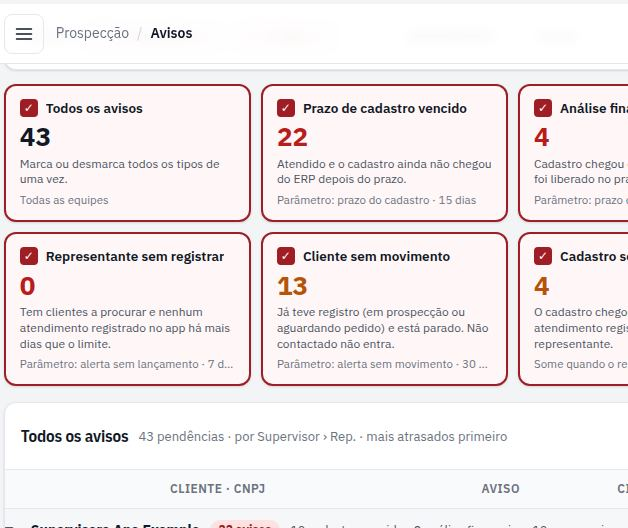
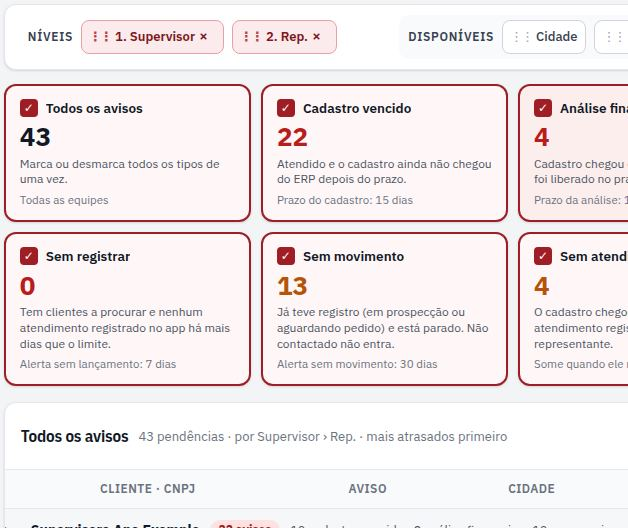
Avisos: dias a partir do início da campanha, grade recolhida, primeiro do menu
- Migração 0032: sem registrar e sem movimento contam a partir do início da
  campanha (Parâmetros); registro anterior, ou nenhum, conta do início. O
  aviso só aparece quando, desde lá, passou o limite. Mesmos índices.
- A grade abre sempre recolhida (ao entrar e ao voltar à tela).
- Avisos é o primeiro item do menu (página inicial da gestão e do supervisor).
- Mouse sobre card e linha do representante: fundo suave e texto escuro, sem
  o vermelho do botão.
- Ajuda, docs/02 e docs/03 §4 e §18, testes.

diff --git a/web/js/telas/avisos.js b/web/js/telas/avisos.js
@@ -3,7 +3,7 @@
 // saem do que está escolhido. Tela inicial de administrador, gerente e supervisor (este só a equipe). docs/03 §18
 import { bancoApp, lerComCache } from '../db.js';
 import { consultaAvisos, consultaParametrosAvisos, consultaParaConferir, contarAvisos, montarGradeAvisos, NIVEIS_AVISOS, pendenciasPorRepresentante,
-  prepararAviso, textoParametro, TIPO_AVISO, TIPOS_AVISO } from '../../shared/avisos.mjs';
+  prepararAviso, rotuloDesde, textoParametro, TIPO_AVISO, TIPOS_AVISO } from '../../shared/avisos.mjs';
 import { niveisPossiveis } from '../../shared/explorar.mjs';
 import { veTodasEquipes } from '../../shared/perfis.mjs';
 import { hojeSaoPaulo } from '../../shared/datas.mjs';
@@ -32,13 +32,13 @@ export async function render(conteudo, { usuario }) {
   const tudo = veTodasEquipes(usuario);
   const possiveis = niveisPossiveis(usuario);
   const nome = (n) => NIVEIS_AVISOS[n].nome;
-  const estado = { niveis: lerNiveis(possiveis, tudo ? ['supervisor', 'representante'] : ['representante']), tipos: new Set(TIPOS_AVISO.map((t) => t.id)), fechados: new Set(), editarNiveis: false };
-  const memoria = memoriaDaTela('avisos', usuario);   // ao voltar da ficha, os tipos marcados e os ramos fechados continuam
+  const estado = { niveis: lerNiveis(possiveis, tudo ? ['supervisor', 'representante'] : ['representante']), tipos: new Set(TIPOS_AVISO.map((t) => t.id)), abertos: new Set(), editarNiveis: false };
+  const memoria = memoriaDaTela('avisos', usuario);   // ao voltar da ficha, os tipos marcados continuam; a grade abre sempre recolhida
   const salvo = memoria.ler();
-  if (salvo && JSON.stringify(salvo.niveis) === JSON.stringify(estado.niveis)) Object.assign(estado, { tipos: new Set(salvo.tipos ?? []), fechados: new Set(salvo.fechados ?? []) });
+  if (salvo && JSON.stringify(salvo.niveis) === JSON.stringify(estado.niveis)) Object.assign(estado, { tipos: new Set(salvo.tipos ?? []) });
   const cont = contarAvisos(avisos);
   const area = h('div', { id: 'av-tela', class: 'av-tela' });
-  const mudarNiveis = (n) => { estado.niveis = n; estado.fechados = new Set(); try { localStorage.setItem(CHAVE_NIVEIS, JSON.stringify(n)); } catch { /* só nesta visita */ } desenhar(); };
+  const mudarNiveis = (n) => { estado.niveis = n; estado.abertos = new Set(); try { localStorage.setItem(CHAVE_NIVEIS, JSON.stringify(n)); } catch { /* só nesta visita */ } desenhar(); };
   const escolhidos = () => avisos.filter((a) => estado.tipos.has(a.tipo));
 
   const botaoExcel = h('button', { type: 'button', class: 'secundario', id: 'excel-avisos', onclick: () => comEspera(botaoExcel, async () => {
@@ -48,7 +48,7 @@ export async function render(conteudo, { usuario }) {
       { titulo: 'Aviso', valor: (l) => TIPO_AVISO[l.tipo].nome, largura: 30 }, { titulo: 'Código', valor: (l) => l.codigo_cliente_erp ?? '', largura: 10 },
       { titulo: 'Razão social', valor: (l) => l.razao_social ?? '', largura: 40 }, { titulo: 'CNPJ', valor: (l) => documento(l.cnpj), largura: 20 },
       { titulo: 'Cidade', valor: (l) => [l.cidade, l.uf].filter(Boolean).join('/'), largura: 22 }, { titulo: 'Rota', valor: (l) => l.rota ?? '', largura: 16 },
-      { titulo: 'Desde', valor: (l) => formatar.data(l.data_ref), largura: 12 }, { titulo: 'O que é a data', valor: (l) => TIPO_AVISO[l.tipo].desde, largura: 16 },
+      { titulo: 'Desde', valor: (l) => formatar.data(l.data_ref), largura: 12 }, { titulo: 'O que é a data', valor: (l) => rotuloDesde(l, parametros), largura: 18 },
       { titulo: 'Atraso (dias)', valor: (l) => l.atraso ?? 'nunca registrou', largura: 14 },
     ], lista, { aba: 'Avisos' });
     aviso(`Excel gerado: ${plural(lista.length, 'aviso', 'avisos')}.`);
@@ -58,6 +58,7 @@ export async function render(conteudo, { usuario }) {
     const conferir = (await lerComCache(db, consultaParaConferir({ usuario }), 120)).rows;
     const reps = pendenciasPorRepresentante(escolhidos(), conferir);
     const hoje = hojeSaoPaulo();
+    for (const r of reps) for (const a of r.avisos) a.desdeRotulo = rotuloDesde(a, parametros);
     await gerarPdfPendencias({ reps, tipos: TIPOS_AVISO.filter((t) => estado.tipos.has(t.id)).map((t) => ({ ...t, textoParam: textoParametro(t.id, parametros) })),
       equipe: tudo ? 'Todas as equipes' : `Equipe: ${usuario.nome}`, comSupervisor: tudo, emissao: formatar.data(hoje), nomeArquivo: `pendencias-${hoje}.pdf` });
   }) }, 'PDF de pendências');
@@ -82,11 +83,11 @@ export async function render(conteudo, { usuario }) {
     const sub = `${plural(lista.length, 'pendência', 'pendências')}${estado.niveis.length ? ` · por ${estado.niveis.map(nome).join(' › ')}` : ''} · mais atrasados primeiro`;
     botaoExcel.disabled = !lista.length; botaoPdf.disabled = !lista.length;
     const comRep = estado.niveis.includes('representante');
-    const linhas = montarGradeAvisos({ avisos: lista, niveis: estado.niveis, fechados: estado.fechados });
+    const linhas = montarGradeAvisos({ avisos: lista, niveis: estado.niveis, abertos: estado.abertos });
     const recuo = (prof) => `padding-left:${12 + prof * 22}px`;
     const corpo = linhas.map((l) => {
       if (l.grupo) {
-        const alternar = () => { if (l.aberto) estado.fechados.add(l.caminho); else estado.fechados.delete(l.caminho); desenhar(); };
+        const alternar = () => { if (l.aberto) estado.abertos.delete(l.caminho); else estado.abertos.add(l.caminho); desenhar(); };
         return h('tr', { class: `av-grupo${l.prof ? '' : ' raiz'}`, dados: { caminho: l.caminho } }, h('td', { colspan: 6, style: recuo(l.prof) },
           h('button', { type: 'button', class: 'av-abre', 'aria-expanded': l.aberto ? 'true' : 'false', onclick: alternar },
             h('span', { class: 'seta', 'aria-hidden': 'true' }, l.aberto ? '▼' : '▶'), h('b', {}, l.rotulo),
@@ -102,7 +103,7 @@ export async function render(conteudo, { usuario }) {
           h('small', {}, sub)),
         h('td', { class: 'cen', 'data-r': 'Aviso' }, h('span', { class: `selo av-tipo ${a.tipo}` }, t.curto)),
         h('td', { 'data-r': 'Cidade' }, doRep ? '—' : [a.cidade, a.uf].filter(Boolean).join('/')),
-        h('td', { class: 'cen', 'data-r': 'Desde' }, a.data_ref ? formatar.data(a.data_ref) : '—', h('small', {}, t.desde)),
+        h('td', { class: 'cen', 'data-r': 'Desde' }, a.data_ref ? formatar.data(a.data_ref) : '—', h('small', {}, rotuloDesde(a, parametros))),
         h('td', { class: 'cen', 'data-r': 'Atraso' }, h('span', { class: 'selo erro' }, dias(a))),
         h('td', { class: 'cen', 'data-r': '' }, acao));
     });
@@ -115,7 +116,7 @@ export async function render(conteudo, { usuario }) {
   }
 
   function desenhar() {
-    memoria.guardar({ niveis: estado.niveis, tipos: [...estado.tipos], fechados: [...estado.fechados] });
+    memoria.guardar({ niveis: estado.niveis, tipos: [...estado.tipos] });
     montar(area, ...blocoNiveis({ estado, possiveis, nome, mudarNiveis, desenhar }), cards(), grade());
   }
 

diff --git a/web/css/app.css b/web/css/app.css
@@ -1000,7 +1000,8 @@ button.chip-situacao.ativa:hover { background: var(--destaque-claro); color: var
 .av-cards { display: grid; grid-template-columns: repeat(auto-fill, minmax(200px, 1fr)); gap: 10px; margin-bottom: 16px; }
 .av-card { display: flex; flex-direction: column; align-items: stretch; gap: 4px; min-height: 118px; padding: 12px 14px; text-align: left; font: inherit; color: var(--texto); background: var(--cartao);
   border: 2px solid var(--borda); border-radius: var(--raio); cursor: pointer; box-shadow: var(--sombra); }
-.av-card:hover { border-color: #E8A0A4; }
+.av-card:hover { border-color: #E8A0A4; background: #FFF5F5; color: var(--texto); }   /* o vermelho do botão some: fundo suave, texto legível */
+.av-card.ligado:hover { background: #FDEEEE; }
 .av-card.ligado { border-color: var(--destaque); background: #FFF7F7; }
 .av-card-topo { display: flex; align-items: center; gap: 8px; min-width: 0; }
 .av-card .caixa { flex: none; width: 18px; height: 18px; box-sizing: border-box; border: 2px solid var(--borda-forte); border-radius: 4px; color: #fff; font-size: 12px; line-height: 14px; text-align: center; font-weight: 700; }
@@ -1028,6 +1029,7 @@ button.chip-situacao.ativa:hover { background: var(--destaque-claro); color: var
 .av-grupo td { padding: 0 !important; background: #FCFCFD; border-top: 1px solid var(--borda); }
 .av-grupo.raiz td { background: #F6F7F9; }
 .av-abre { display: flex; align-items: center; gap: 10px; width: 100%; min-height: 42px; padding: 8px 12px 8px 0; font: inherit; color: inherit; text-align: left; background: transparent; border: 0; cursor: pointer; }
+.av-abre:hover { background: #FDF0F0; color: var(--texto); }
 .av-abre .seta { width: 16px; flex: none; font-size: 11px; color: #4B5563; }
 .av-abre b { white-space: nowrap; }
 .av-abre .qtd { flex: none; padding: 1px 9px; border-radius: 999px; background: #FEE2E2; color: #991B1B; font-size: 12px; font-weight: 700; white-space: nowrap; }
@@ -1051,5 +1053,5 @@ button.chip-situacao.ativa:hover { background: var(--destaque-claro); color: var
   .av-card .tit { font-size: 12.5px; }
   .av-card b { font-size: 12.5px; color: inherit !important; }
   .av-card b::before { content: "· "; }
-  .av-card.ligado { background: var(--destaque); color: #fff; }
+  .av-card.ligado, .av-card.ligado:hover { background: var(--destaque); color: #fff; }
 }

diff --git a/web/js/relatorio.js b/web/js/relatorio.js
@@ -278,7 +278,8 @@ export async function gerarPdfPendencias({ reps, tipos, equipe, comSupervisor = 
         doc.setFont('helvetica', 'bold'); doc.setFontSize(10); doc.setTextColor(17, 24, 39);
         doc.text(a.atraso == null ? 'Nunca registrou atendimento no app' : `Sem registrar há ${dias(a)}`, M + 3, y + 5.2);
         doc.setFont('helvetica', 'normal'); doc.setFontSize(8); doc.setTextColor(75, 85, 99);
-        doc.text(`${a.data_ref ? `Último registro em ${data(a.data_ref)}. ` : ''}${b.tipo.textoParam}. ${b.tipo.acao}`, M + 3, y + 10);
+        const desde = !a.data_ref ? '' : a.desdeRotulo === 'início da campanha' ? `Sem registro desde o início da campanha (${data(a.data_ref)}). ` : `Último registro em ${data(a.data_ref)}. `;
+        doc.text(`${desde}${b.tipo.textoParam}. ${b.tipo.acao}`, M + 3, y + 10);
         y += 18;
         continue;
       }
@@ -288,7 +289,7 @@ export async function gerarPdfPendencias({ reps, tipos, equipe, comSupervisor = 
       doc.text(doc.splitTextToSize(`${b.tipo.regra} O que fazer: ${b.tipo.acao}`, util), M, y + 5.5);
       doc.autoTable({ ...tabelaBase, startY: y + 8,
         head: [['', 'Cliente · CNPJ', 'Cidade', 'Desde', 'Atraso', 'Combinado']],
-        body: b.avisos.map((a) => ['', `${a.codigo_cliente_erp ? `${a.codigo_cliente_erp} - ` : ''}${a.razao_social ?? ''}\n${cnpj(a.cnpj)}`, [a.cidade, a.uf].filter(Boolean).join('/'), `${data(a.data_ref)}\n${b.tipo.desde}`, dias(a), '']),
+        body: b.avisos.map((a) => ['', `${a.codigo_cliente_erp ? `${a.codigo_cliente_erp} - ` : ''}${a.razao_social ?? ''}\n${cnpj(a.cnpj)}`, [a.cidade, a.uf].filter(Boolean).join('/'), `${data(a.data_ref)}\n${a.desdeRotulo ?? b.tipo.desde}`, dias(a), '']),
         columnStyles: { 0: { cellWidth: 6 }, 1: { cellWidth: 62 }, 2: { cellWidth: 42, fontSize: 7.5 }, 3: { cellWidth: 22, halign: 'center', fontSize: 7.5 }, 4: { cellWidth: 18, halign: 'center', fontStyle: 'bold', textColor: [153, 27, 27] }, 5: { cellWidth: util - 150 } },
         didDrawCell: (d) => {
           if (d.section !== 'body') return;

diff --git a/web/js/menu.js b/web/js/menu.js
@@ -47,10 +47,11 @@ export function icone(nome) {
 // Grupos do menu. Cada item aparece se o perfil do usuário tem a tela (shared/perfis.mjs); grupo vazio some.
 const GRUPOS = [
   { titulo: 'Prospecção', itens: [
+    // Avisos primeiro: é a página inicial de administrador, gerente e supervisor (quem não tem a tela começa no Explorar)
+    { caminho: '/avisos', rotulo: 'Avisos', icone: 'avisos', tela: 'avisos' },
     { caminho: '/explorar', rotulo: 'Explorar carteira', icone: 'explorar', tela: 'explorar' },
     { caminho: '/carteira', rotulo: 'Lista principal', icone: 'lista', tela: 'lista' },
     { caminho: '/carteira?aba=acompanhamento', rotulo: 'Acompanhamento', icone: 'acompanhamento', tela: 'acompanhamento' },
-    { caminho: '/avisos', rotulo: 'Avisos', icone: 'avisos', tela: 'avisos' },
     { caminho: '/pedidos', rotulo: 'Explorar pedidos', icone: 'erp', tela: 'pedidos' },
     { caminho: '/rejeitados', rotulo: 'Rejeitados', icone: 'rejeitados', tela: 'rejeitados' },
   ] },

diff --git a/docs/03-regras-negocio.md b/docs/03-regras-negocio.md
@@ -151,6 +151,10 @@ Do sistema (não aparece no app): Não informado (importação inicial).
 | Cliente sem movimento (Sem movimento) | `vw_prospects.parado`, **só depois do 1º registro** (0031): Em prospecção desde o último registro, ou Aguardando pedido desde a liberação do crédito (ou o último registro), sem retorno marcado, há mais de `dias_alerta_sem_movimento`. **Não contactado não entra** (é cobertura da carteira, não pendência); Aguardando cadastro e Análise financeira têm prazo próprio e não contam duas vezes | dias parado |
 | Cadastro sem atendimento (Sem atendimento) | `convertido_sem_registro = 1` (cadastro ou pedido do ERP sem atendimento no app), fora de baixado e expurgado | dias desde o cadastro (ou pedido) |
 
+**Início da campanha (0032):** Sem registrar e Sem movimento contam os dias a partir do **início da campanha** (Parâmetros ›
+`data_inicio_campanha`). Registro anterior a ela (ex.: contato da planilha) — ou nenhum, no Sem registrar — conta do início; o aviso
+só aparece quando, desde lá, passaram mais dias que o alerta. Na grade, a data aparece com "início da campanha" embaixo.
+
 O "retorno pendente" do dia (`retorno_pendente`, hoje ou vencido) continua na Lista principal; o aviso é só o vencido.
 
 ## 5. Indicadores
@@ -697,9 +701,9 @@ passo a passo (arquivo → colunas → simulação → gravação):
 - Os endereços antigos (`#/admin/importar/base`, `/admin/grupos`, `/admin/importar/credito`, `/admin/importar/pedidos`,
   `/admin/importar/erp`, `/admin/importacoes`) levam à aba correspondente.
 
-## 18. Avisos (migração 0031 · `shared/avisos.mjs` · `web/js/telas/avisos.js`)
+## 18. Avisos (migrações 0031 e 0032 · `shared/avisos.mjs` · `web/js/telas/avisos.js`)
 
-Tela **Prospecção › Avisos** (`#/avisos`), para **administrador, gerente e supervisor** (tela `avisos`; o supervisor vê só a
+Tela **Prospecção › Avisos** (`#/avisos`, **primeiro item do menu**), para **administrador, gerente e supervisor** (tela `avisos`; o supervisor vê só a
 equipe dele, o que vê todas as equipes vê a base toda). É a **página inicial** desses perfis. Mostra o que passou do prazo
 configurado em Parâmetros (§4), para saber **o que cobrar e de quem**.
 
@@ -707,7 +711,8 @@ configurado em Parâmetros (§4), para saber **o que cobrar e de quem**.
   tem cliente: nos níveis do cliente (cidade, segmento, onda, rota, subrota) fica no ramo **Do representante**.
 - **Cards de seleção múltipla**: Todos os avisos (marca ou desmarca todos) e um por tipo, com o número, a regra e o prazo dos
   Parâmetros. Sem card marcado, a grade pede para escolher. Ao abrir, todos marcados.
-- **Uma grade só**: uma linha por ramo dos níveis (total e resumo do que cobrar, ▶/▼ abre e fecha) e, dentro, os avisos dos
+- **Uma grade só**, que **abre sempre recolhida** (0032): uma linha por ramo dos níveis (total e resumo do que cobrar, ▶ abre e
+  ▼ fecha; ao sair e voltar, recolhe de novo) e, dentro, os avisos dos
   tipos marcados, mais atrasados primeiro (quem nunca registrou vem antes): Cliente · CNPJ (com o Rep. embaixo quando ele não é
   nível), Aviso, Cidade, Desde (com o que a data é), Atraso e Abrir ficha (no Sem registrar, Ver carteira). Sem espaço, vira cartões.
 - **Excel** e **PDF de pendências** saem dos tipos marcados. O PDF (A4 retrato, modelo aprovado): página 1 com o resumo

diff --git a/docs/02-modelo-dados.md b/docs/02-modelo-dados.md
@@ -135,7 +135,7 @@ Views: `vw_pedidos` (situação atual de cada pedido, classificada, com represen
 | `vw_prospects` | carteira/ficha: prospect + status (nome, cor) + vendedor + supervisor + motivo + `vendedor_tipo_atuacao`, `status_descricao` ("Aguardando cadastro · atendido em dd/mm/aaaa"), `dias_corridos` (desde o 1º atendimento), `na_lista`, `pendente_hoje`, `retorno_pendente`, `atendido`, `prazo_cadastro_vencido`, `em_analise_financeira`, `dias_sem_movimento`, `parado` (0031: só depois do 1º registro, docs/03 §4) |
 | `vw_movimentacoes` | histórico de movimentação com nomes (status, quem fez, vendedor da época, cidade/bairro) — linha do tempo da ficha e base de filtros |
 | `vw_ultimo_lancamento` | dias sem lançar por vendedor (bloco de atenção) |
-| `vw_avisos` (0031) | um aviso por linha — tipo, cliente (vazio no sem registrar), dono da carteira, data de referência e atraso; cada parte lê só o vencido por um índice parcial (`ix_avisos_*`). Tela Avisos, Excel, PDF e número do menu |
+| `vw_avisos` (0031; 0032: sem registrar e sem movimento contam do início da campanha) | um aviso por linha — tipo, cliente (vazio no sem registrar), dono da carteira, data de referência e atraso; cada parte lê só o vencido por um índice parcial (`ix_avisos_*`). Tela Avisos, Excel, PDF e número do menu |
 | `vw_rota_paradas` | paradas de cada rota, na ordem, com dados do prospect e `atendida` |
 | `vw_rotas_execucao` | por rota: paradas planejadas × atendidas (vendedor, equipe) |
 | `vw_ranking_motivos` | motivos finais de "sem interesse" por vendedor/supervisor |
